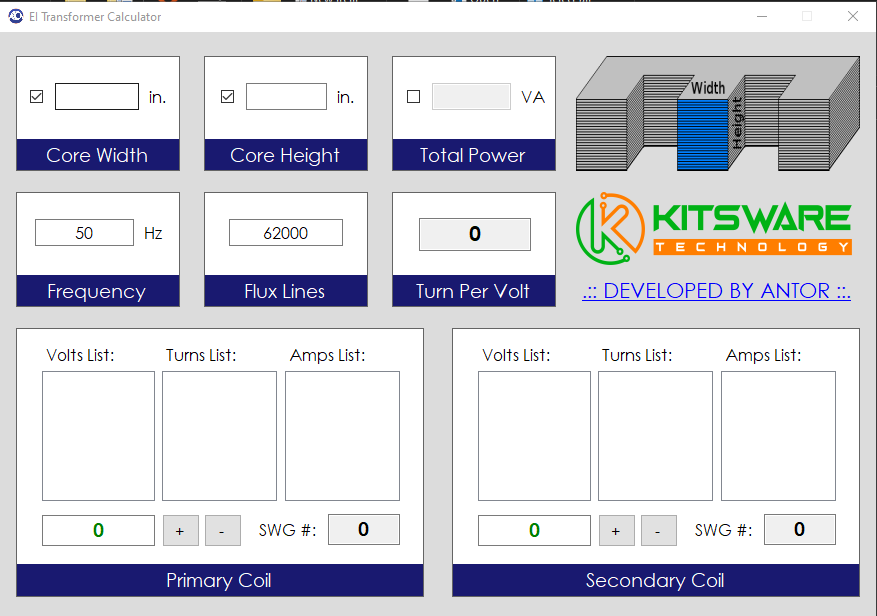
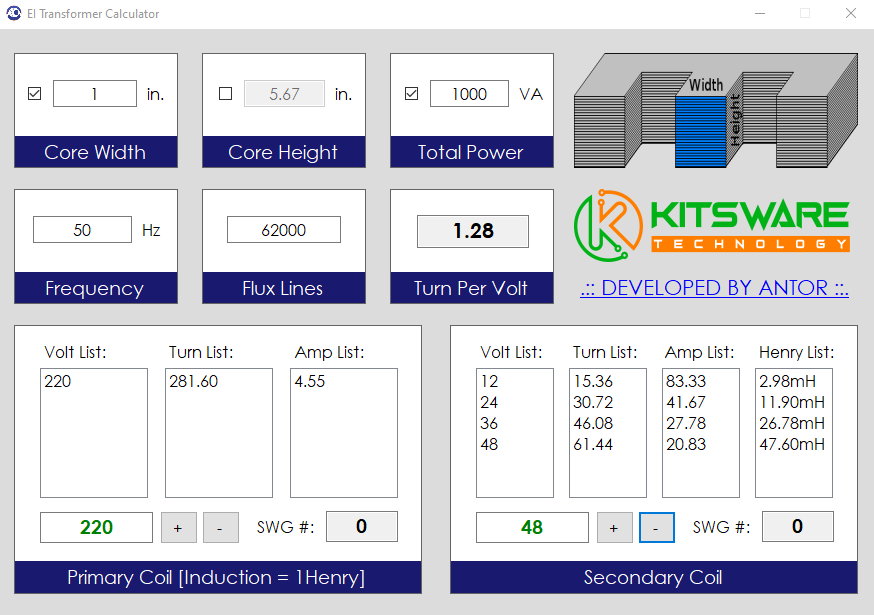
bug fixed

diff --git a/Form1.cs b/Form1.cs
@@ -170,8 +170,8 @@ namespace EI_Transformer_Calculator {
             SturnList.Items.Add((N2).ToString("0.00"));
             SampList.Items.Add((power / volt).ToString("0.00"));
 
-            if (PturnList.Items.Count == 0) return;
-            double N1 = double.Parse(PturnList.Items[SturnList.Items.Count - 1].ToString());
+            if (PturnList.Items.Count == 0) return;       
+            double N1 = double.Parse(PturnList.Items[PturnList.Items.Count - 1].ToString());
             ShenryList.Items.Add((Math.Pow(N2, 2) / Math.Pow(N1, 2) * 1000).ToString("0.00mH"));
         }
 
